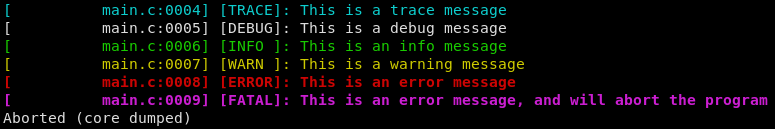
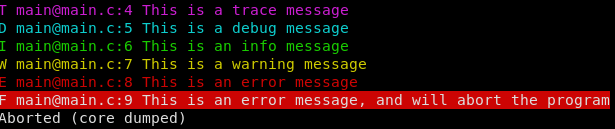
Changed log output format

diff --git a/log.h b/log.h
@@ -1,78 +1,67 @@
 #pragma once
+#include <time.h>
 #include <stdio.h>
 #include <stdlib.h>
 
 #ifndef LOG_LEVEL
-    #define LOG_LEVEL LOG_LEVEL_INFO
+    #define LOG_LEVEL LOG_LEVEL_DEFAULT
 #endif
 
 enum {
-    LOG_LEVEL_ALL,
-    LOG_LEVEL_FATAL,
-    LOG_LEVEL_ERROR,
-    LOG_LEVEL_WARN,
-    LOG_LEVEL_INFO,
-    LOG_LEVEL_DEBUG,
-    LOG_LEVEL_TRACE
+    LOG_LEVEL_TRACE     = 0x01,
+    LOG_LEVEL_DEBUG     = 0x02,
+    LOG_LEVEL_INFO      = 0x04,
+    LOG_LEVEL_WARN      = 0x08,
+    LOG_LEVEL_ERROR     = 0x10,
+    LOG_LEVEL_FATAL     = 0x20,
+
+    LOG_LEVEL_SILENT    = 0x00,
+    LOG_LEVEL_DEFAULT   = LOG_LEVEL_INFO | LOG_LEVEL_WARN | LOG_LEVEL_ERROR | LOG_LEVEL_FATAL,
+    LOG_LEVEL_ALL       = 0xFF
 };
 
-#if LOG_LEVEL <= LOG_LEVEL_TRACE
-    #define trace(...) do {\
-        fprintf(stderr, "\033[36m[%16s:%04d] [TRACE]: ", __FILE__, __LINE__);\
-        fprintf(stderr, __VA_ARGS__);\
-        fprintf(stderr, "\033[0m\n");\
-    } while (0)
+#define LOG(color, tag, ...) do {\
+    time_t t___ = time(NULL);\
+    struct tm *tm___ = localtime(&t___);\
+    char now___[64] = {0};\
+    strftime(now___, sizeof now___, "%b %e %T", tm___);\
+    fprintf(stderr, "%s%c %s@%s:%d ", color, tag, __func__, __FILE__, __LINE__);\
+    fprintf(stderr, __VA_ARGS__);\
+    fprintf(stderr, "\033[0m\n");\
+} while (0)
+
+#if (LOG_LEVEL & LOG_LEVEL_FATAL) == LOG_LEVEL_FATAL
+    #define LOG_FATAL(...)  do { LOG("\033[41m", 'F', __VA_ARGS__); abort(); } while (0)
 #else
-    #define trace(...)
+    #define LOG_FATAL(...)
 #endif
 
-#if LOG_LEVEL <= LOG_LEVEL_DEBUG
-    #define debug(...) do {\
-        fprintf(stderr, "[%16s:%04d] [DEBUG]: ", __FILE__, __LINE__);\
-        fprintf(stderr, __VA_ARGS__);\
-        fprintf(stderr, "\n");\
-    } while (0)
+#if (LOG_LEVEL & LOG_LEVEL_ERROR) == LOG_LEVEL_ERROR
+    #define LOG_ERROR(...) LOG("\033[31m", 'E', __VA_ARGS__)
 #else
-    #define debug(...)
+    #define LOG_ERROR(...)
 #endif
 
-#if LOG_LEVEL <= LOG_LEVEL_INFO
-    #define info(...) do {\
-        fprintf(stderr, "\033[32m[%16s:%04d] [INFO ]: ", __FILE__, __LINE__);\
-        fprintf(stderr, __VA_ARGS__);\
-        fprintf(stderr, "\033[0m\n");\
-    } while (0)
+#if (LOG_LEVEL & LOG_LEVEL_WARN) == LOG_LEVEL_WARN
+    #define LOG_WARN(...)  LOG("\033[33m", 'W', __VA_ARGS__)
 #else
-    #define info(...)
+    #define LOG_WARN(...)
 #endif
 
-#if LOG_LEVEL <= LOG_LEVEL_WARN
-    #define warn(...) do {\
-        fprintf(stderr, "\033[33m[%16s:%04d] [WARN ]: ", __FILE__, __LINE__);\
-        fprintf(stderr, __VA_ARGS__);\
-        fprintf(stderr, "\033[0m\n");\
-    } while (0)
+#if (LOG_LEVEL & LOG_LEVEL_INFO) == LOG_LEVEL_INFO
+    #define LOG_INFO(...)  LOG("\033[32m", 'I', __VA_ARGS__)
 #else
-    #define warn(...)
+    #define LOG_INFO(...)
 #endif
 
-#if LOG_LEVEL <= LOG_LEVEL_ERROR
-    #define error(...) do {\
-        fprintf(stderr, "\033[31;1m[%16s:%04d] [ERROR]: ", __FILE__, __LINE__);\
-        fprintf(stderr, __VA_ARGS__);\
-        fprintf(stderr, "\033[0m\n");\
-    } while (0)
+#if (LOG_LEVEL & LOG_LEVEL_DEBUG) == LOG_LEVEL_DEBUG
+    #define LOG_DEBUG(...) LOG("\033[36m", 'D', __VA_ARGS__)
 #else
-    #define error(...)
+    #define LOG_DEBUG(...)
 #endif
 
-#if LOG_LEVEL <= LOG_LEVEL_FATAL
-    #define fatal(...) do {\
-        fprintf(stderr, "\033[35;1m[%16s:%04d] [FATAL]: ", __FILE__, __LINE__);\
-        fprintf(stderr, __VA_ARGS__);\
-        fprintf(stderr, "\033[0m\n");\
-        abort();\
-    } while (0)
+#if (LOG_LEVEL & LOG_LEVEL_TRACE) == LOG_LEVEL_TRACE
+    #define LOG_TRACE(...) LOG("\033[35m", 'T', __VA_ARGS__)
 #else
-    #define fatal(...)
+    #define LOG_TRACE(...)
 #endif

diff --git a/README.md b/README.md
@@ -3,15 +3,16 @@ A super simple header-only logger for C/C++
 
 ## Example
 ```c
+#define LOG_LEVEL LOG_LEVEL_ALL
 #include "log.h"
 
 int main(void) {
-    trace("This is a trace message");
-    debug("This is a debug message");
-    info("This is an info message");
-    warn("This is a warning message");
-    error("This is an error message");
-    fatal("This is an error message, and will abort the program");
+    LOG_TRACE("This is a trace message");
+    LOG_DEBUG("This is a debug message");
+    LOG_INFO("This is an info message");
+    LOG_WARN("This is a warning message");
+    LOG_ERROR("This is an error message");
+    LOG_FATAL("This is an error message, and will abort the program");
 }
 ```
 
